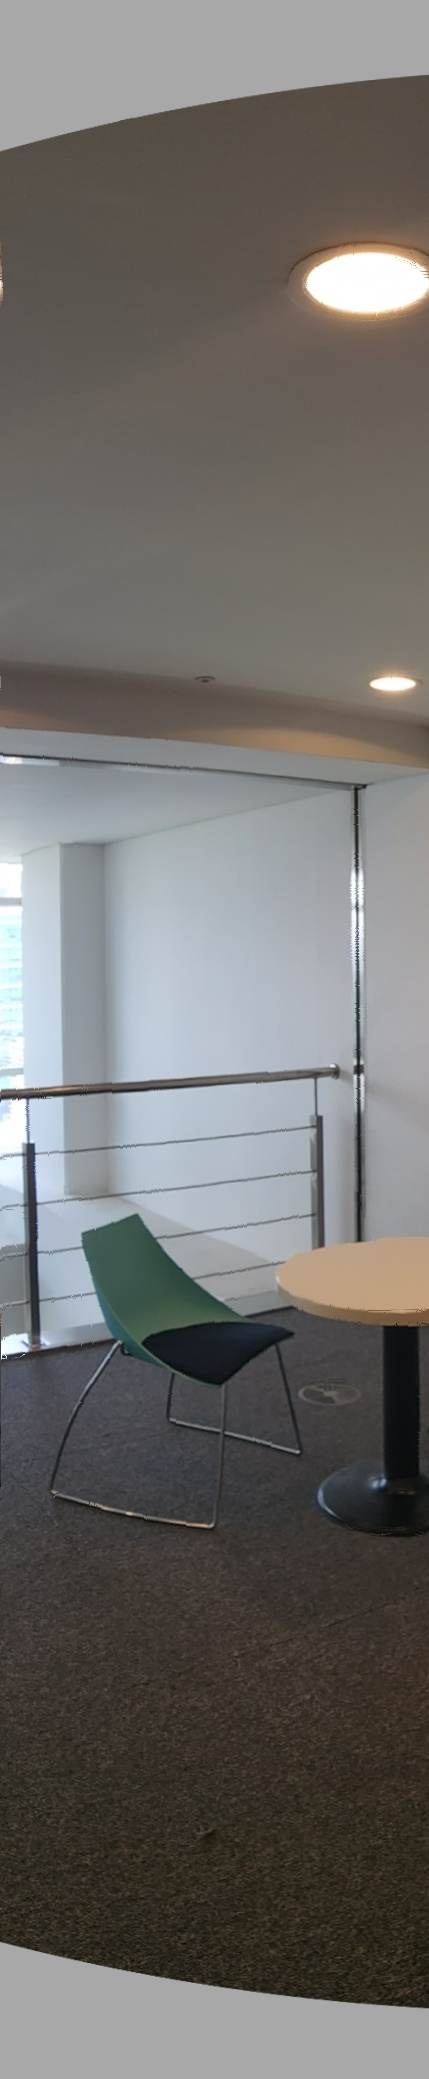
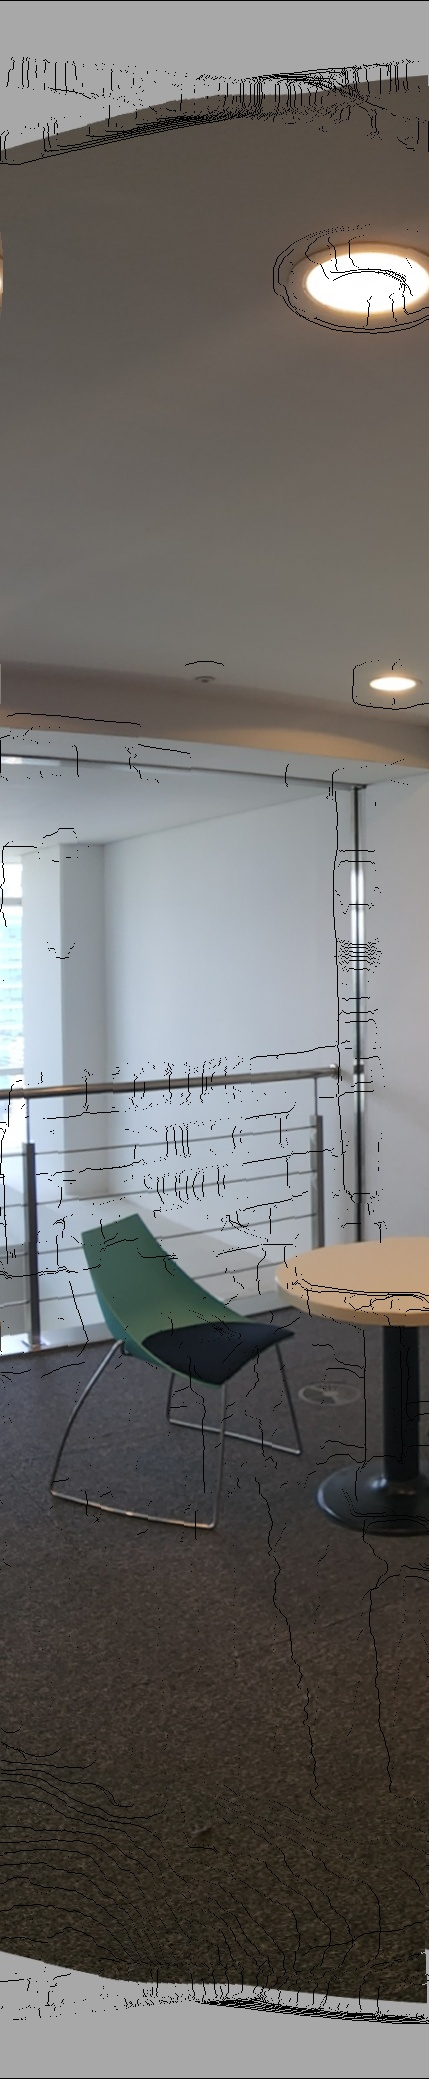
add inpainting and result

diff --git a/CppPractive/opticalFlow/dense_opt_flow.cpp b/CppPractive/opticalFlow/dense_opt_flow.cpp
@@ -8,13 +8,6 @@
 #include "dense_opt_flow.hpp"
 
 
-void dense_opt_flow_to_left_right() {
-    std::string leftImg = "";
-    std::string rightImg = "";
-    
-    
-    
-}
 
 void demo_dense_opt_flow(std::string method) {
     std::string filename = "/Users/3i-21-331/workspace/CppPractive/CppPractive/cars_moving.mp4";
@@ -22,8 +15,8 @@ void demo_dense_opt_flow(std::string method) {
     std::string srcDir = "/Users/3i-21-331/workspace/stitching/mobile_stitching/dataset/blending";
 
     std::string leftFile, rightFile;
-    bool is_center = true;
-    int dataset_num = 11; // 23, 13
+    bool is_center =  true;
+    int dataset_num = 23; // 23, 13 (11, 13, 23) : (zflip, zflip, ultra)
     
     if (is_center) {
         
@@ -73,6 +66,7 @@ void demo_dense_opt_flow(std::string method) {
 template <typename Method, typename... Args>
 void dense_optical_flow_images(std::string leftImgFile, std::string rightImgFile, Method method, bool to_gray, Args&&... args)
 {
+    std::string drawing = "twoOptFlow";//"halfL_halfR";  // halfL_halfR, twoOptFlow
     
     std::string srcDir = "/Users/3i-21-331/workspace/CppPractive/CppPractive/opticalFlow/result/";
     bool save = true;
@@ -85,8 +79,6 @@ void dense_optical_flow_images(std::string leftImgFile, std::string rightImgFile
     cv::Mat rightImg    = cv::imread(rightImgFile);
     
     assert(!leftImg.empty() && !rightImg.empty());
-//    std::cout << "left  image size: " << leftImg.size() << std::endl;
-//    std::cout << "right image size: " << rightImg.size() << std::endl;
     
     
     cv::Mat resultImg = cv::Mat(leftImg.rows, leftImg.cols, leftImg.type());
@@ -111,8 +103,6 @@ void dense_optical_flow_images(std::string leftImgFile, std::string rightImgFile
         prvsR = frame2;
     
     // Calculate Optical Flow
-//    std::cout << "prevL, next size: " << prvsL.size() << ", " << prvsR.size() << std::endl;
-//    std::cout << "prevL, next channel: " << prvsL.channels() << ", " << prvsR.channels() << std::endl;
     cv::Mat flowL2R(prvsR.size(), CV_32FC2);
     cv::Mat flowR2L(prvsL.size(), CV_32FC2);
     
@@ -125,7 +115,6 @@ void dense_optical_flow_images(std::string leftImgFile, std::string rightImgFile
     // if not matched
     // use average value
 
-//    imwrite(srcDir + "beforeflowR2L.jpg", prvsR);
     cv::Mat prvsR_drawn = prvsR.clone(); // cv::Mat(prvsR.rows, prvsR.cols, prvsR.type());
     cv::Mat prvsL_drawn = prvsL.clone(); cv::Mat(prvsL.rows, prvsL.cols, prvsL.type());
     
@@ -135,12 +124,11 @@ void dense_optical_flow_images(std::string leftImgFile, std::string rightImgFile
         for (int x = 0; x < prvsR.cols; x += win_interval) {
             
             const cv::Point2f flowatxy = flowL2R.at<cv::Point2f>(y,x);
-//            printf("(%d,%d) = %.2f, %.2f\n", x, y, flowatxy.x, flowatxy.y);
             line(prvsR_drawn, cv::Point(x,y), cv::Point(cvRound(x + flowatxy.x), cvRound(y + flowatxy.y)), cv::Scalar(255,0,0));
             circle(prvsR_drawn, cv::Point(x,y), radius, cv::Scalar (0,0,0), -1);
         }
     }
-    imwrite(srcDir + "flowR2L.jpg", prvsR_drawn);
+//    imwrite(srcDir + "flowR2L.jpg", prvsR_drawn);
     
     
     for (int y = 0; y < prvsL.rows; y += win_interval) {
@@ -151,10 +139,15 @@ void dense_optical_flow_images(std::string leftImgFile, std::string rightImgFile
             circle(prvsL_drawn, cv::Point(x,y), radius, cv::Scalar (0,0,0), -1);
         }
     }
-    imwrite(srcDir + "flowL2R.jpg", prvsL_drawn);
+//    imwrite(srcDir + "flowL2R.jpg", prvsL_drawn);
     
+    int win_size = 3;
     
-    std::string drawing = "twoOptFlow";//"halfL_halfR"; //"twoOptFlow"; // halfL_halfR, twoOptFlow
+
+    int x_min = prvsL.cols/2 - 3;
+    int x_max = prvsL.cols/2 + 3;
+    int y_min = prvsL.rows/2 - 3;
+    int y_max = prvsL.rows/2 + 3;
     
     if (drawing =="halfL_halfR") {
         for (int y = 230; y < prvsR.rows-230; y += 1 /*opticalWindowSize*/) {
@@ -170,30 +163,7 @@ void dense_optical_flow_images(std::string leftImgFile, std::string rightImgFile
                 double half_x_l2r = flowPt_L2R.x / 2.0;
                 double half_y_l2r = flowPt_L2R.y / 2.0; // p2n -> l2r
                 
-//                // bilinear interpolation //
-//                double xf = x + half_x_r2l + x - half_x_l2r;
-//                double yf = y + half_y_r2l + y - half_y_l2r;
-//
-//                double xi_1 = (int)xf;
-//                double yi_1 = (int)yf;
-//                double xi_2 = xi_1 + 1;
-//                double yi_2 = yi_1 + 1;
-//
-//                double a, b, p, q;
-//                a = (double)yi_2 - yf;
-//                b = yf - (double)yi_1;
-//                p = xf - (double)xi_1;
-//                q = (double)xi_2 - xf;
-                
-//                double M, N;
-//                int P;
-//                M = a * half_x_r2l + b * half_y_l2r;
-                
-                
-                ////////////////////////////
-                
-                
-                
+
                 // x
                 if ( abs(trunc(half_x_r2l * 10.0)) != abs(trunc(half_x_r2l * 10.0)) ) { // compare until floating point 1
                     dest_x = cvRound((x + half_x_r2l + x - half_x_r2l) / 2.0 );
@@ -246,95 +216,91 @@ void dense_optical_flow_images(std::string leftImgFile, std::string rightImgFile
                 resultImg.at<cv::Vec3b>(dest_y,dest_x) = rightImg.at<cv::Vec3b>(y,x);
             }
         }
+        
         imwrite(srcDir + "resultImg.jpg", resultImg);
 
         
         
-    } else if (drawing == "twoOptFlow") {
+    }
+    else if (drawing == "twoOptFlow") {
 
-        cv::Mat resultImgL = leftImg.clone(); // cv::Mat(leftImg.rows, leftImg.cols, leftImg.type());
-        cv::Mat resultImgR = rightImg.clone(); // cv::Mat(rightImg.rows, rightImg.cols, rightImg.type());
+        cv::Mat resultImgL = cv::Mat::zeros(leftImg.rows, leftImg.cols, leftImg.type()); // leftImg.clone(); // cv::Mat(leftImg.rows, leftImg.cols, leftImg.type());
+        cv::Mat resultImgR = cv::Mat::zeros(rightImg.rows, rightImg.cols, rightImg.type()); // rightImg.clone(); // cv::Mat(rightImg.rows, rightImg.cols, rightImg.type());
         
         // left
-//        std::cout << "check: " << flowR2L.at<cv::Point2f>(prvsR.rows-1, prvsR.cols-1) << std::endl;
-        for (int y = 230; y < prvsR.rows-230; y += 1 /*opticalWindowSize*/) {
-            for (int x = 0; x < prvsR.cols; x += 1 /*opticalWindowSize*/) {
+        int shift_ = 1;
+        for (int y = shift_; y < prvsL.rows-shift_; y += 1) {
+            for (int x = 0; x < prvsL.cols; x += 1) {
+                
+                int xr, yr;
                 int dest_x, dest_y;
-                const cv::Point2f flowPt_R2L = flowR2L.at<cv::Point2f>(y,x);
                 const cv::Point2f flowPt_L2R = flowL2R.at<cv::Point2f>(y,x);
+//                const cv::Point2f flowPt_R2L = flowR2L.at<cv::Point2f>(y,x);
+//                const cv::Point2f flowPt_L2R = flowL2R.at<cv::Point2f>(y,x);
+                
+                xr = round(x + flowPt_L2R.x);
+                yr = round(y + flowPt_L2R.y);
+                xr = max(0, xr);            yr = max(0,yr);
+                xr = min(xr, prvsR.cols-1); yr = min(yr, prvsR.rows-1);
+            
+                const cv::Point2f flowPt_R2L = flowR2L.at<cv::Point2f>(yr,xr);
                 
                 // half movement of next to prvs
-//                printf("(%d, %d) = %.2lf, %.2lf\n", x, y, flowPt_R2L.x, flowPt_R2L.y );
                 double half_x_r2l = flowPt_R2L.x / 2.0;
                 double half_y_r2l = flowPt_R2L.y / 2.0;
                 // half movement of prvs to next
                 double half_x_l2r = flowPt_L2R.x / 2.0;
                 double half_y_l2r = flowPt_L2R.y / 2.0;
                 
+                dest_x = cvRound(x + (-half_x_r2l + half_x_l2r) / 2.0 );
+                dest_y = cvRound(y + (-half_y_r2l + half_y_l2r) / 2.0 );
                 
-                // bilinear interpolation //
-                double xf = x + (-half_x_r2l + half_x_l2r) / 2.0;
-                double yf = y + (-half_y_r2l + half_y_l2r) / 2.0;
+                resultImgL.at<cv::Vec3b>(dest_y,dest_x) = leftImg.at<cv::Vec3b>(y,x);
                 
-                int xi_1 = (int)xf;
-                int yi_1 = (int)yf;
-                int xi_2 = (int)(xf + 0.5); // xi_1 + 1;
-                int yi_2 = (int)(yf + 0.5); // yi_1 + 1;
                 
-                double a, b, p, q;
-                a = (double)yi_2 - yf;  // yf
-                b = yf - (double)yi_1;  // yf
-                p = xf - (double)xi_1;  // xf
-                q = (double)xi_2 - xf;  // xf
+//                if  ( x > x_min && x < x_max && y > y_min && y < y_max) {
+//                    printf( "\ncurrent flow (%d,%d): %.2f, %.2f\n", x, y, flowPt_L2R.x, flowPt_L2R.y);
+//                    // 3x3 window 안에서 이웃들의 Flow 계산
+//                    for (int i = 0; i < win_size; i++) {
+//                        for (int j = 0; j < win_size; j++) {
+//                            const cv::Point2f flowNear = flowL2R.at<cv::Point2f>(y+i, x+j);
+//                            printf( "neighbor flow (%d,%d): %.2f, %.2f\n", x+j, y+i, flowNear.x, flowNear.y);
+//                        }
+//                    }
+////                    imshow("hey", resultImgL);
+////                    cv::waitKey(0);
+//
+//                }
                 
-                double M, N;
-                int P;
                 
-//                std::cout << "flow value " << std::endl;
-//                std::cout << flowL2R.at<cv::Point2f>(yi_1, xi_1).x  << ", " << flowL2R.at<cv::Point2f>(yi_2, xi_1).x << std::endl;
-//                std::cout << flowL2R.at<cv::Point2f>(yi_1, xi_2).x << ", " << flowL2R.at<cv::Point2f>(yi_2, xi_2).x << std::endl;
                 
-                M = a * flowL2R.at<cv::Point2f>(yi_1, xi_1).x + b * flowL2R.at<cv::Point2f>(yi_2, xi_1).x;
-                N = a * flowL2R.at<cv::Point2f>(yi_1, xi_2).x + b * flowL2R.at<cv::Point2f>(yi_2, xi_2).x;
-                P = (int) ( (p * N + q * M) / (p + q) );
-                
-//                std::cout << "(x) M,N: " << M << ", " << N << std::endl;
-//                std::cout << "(x) P: " << P << std::endl;
                 
                 // x
 //                if ( abs(trunc(half_x_r2l*10.0)) != abs(trunc(half_x_l2r * 10.0)) ) { // compare until floating point 1
-                dest_x = cvRound(x + (-half_x_r2l + half_x_l2r) / 2.0 );  // P
-//                }
-//                else {
+//                dest_x = cvRound(x + (-half_x_r2l + half_x_l2r) / 2.0 );  // P
+//                else
 //                    dest_x = cvRound(x + half_x_l2r) ; //flowatxy2.x); // half_x_p2n);
-//                }
-                
-                M = a * flowL2R.at<cv::Point2f>(yi_1, xi_1).y + b * flowL2R.at<cv::Point2f>(yi_2, xi_1).y;
-                N = a * flowL2R.at<cv::Point2f>(yi_1, xi_2).y + b * flowL2R.at<cv::Point2f>(yi_2, xi_2).y;
-                P = (int)(p * N + q * M) / (p + q);
-//                std::cout << "(y) M,N: " << M << ", " << N << std::endl;
-//                std::cout << "(y) P: " << P << std::endl;
-                
-                
-                
                 // y
 //                if ( abs(trunc(half_y_r2l*10.0)) != abs(trunc(half_y_l2r * 10.0)) ) { // compare until floating point 1
-                dest_y = cvRound(y + (-half_y_r2l + half_y_l2r) / 2.0 );  // P
-//                }
-//                else {
+//                dest_y = cvRound(y + (-half_y_r2l + half_y_l2r) / 2.0 );  // P
+//                else
 //                    dest_y = cvRound(y + half_y_l2r); // flowatxy2.y); // half_y_p2n);
-//                }
+
                 
-                resultImgL.at<cv::Vec3b>(dest_y,dest_x) = leftImg.at<cv::Vec3b>(y,x);
+                
             }
         }
         
         // right
-        for (int y = 230; y < prvsR.rows-230; y += 1) {
-            for (int x = 1; x < prvsR.cols ; x += 1) {
-                int dest_x, dest_y;
+        for (int y = shift_; y < prvsR.rows-shift_; y += 1) {
+            for (int x = 0; x < prvsR.cols ; x += 1) {
+                int xl, yl, dest_x, dest_y;
                 const cv::Point2f flowPt_R2L = flowR2L.at<cv::Point2f>(y,x);
-                const cv::Point2f flowPt_L2R = flowL2R.at<cv::Point2f>(y,x);
+                xl = round(x + flowPt_R2L.x);
+                yl = round(y + flowPt_R2L.y);
+                xl = max(0, xl);            yl = max(0,yl);
+                xl = min(xl, prvsR.cols-1); yl = min(yl, prvsR.rows-1);
+                const cv::Point2f flowPt_L2R = flowL2R.at<cv::Point2f>(yl,xl);
                 
                 // half movement of next to prvs
                 double half_x_r2l = flowPt_R2L.x / 2.0;
@@ -343,38 +309,72 @@ void dense_optical_flow_images(std::string leftImgFile, std::string rightImgFile
                 double half_x_l2r = flowPt_L2R.x / 2.0;
                 double half_y_l2r = flowPt_L2R.y / 2.0;  // p2n -> l2r
                 
-                // x
-                if ( abs(trunc(half_x_r2l*10.0)) != abs(trunc(half_x_l2r * 10.0)) ) { // compare until floating point 1
-                    dest_x = cvRound(x + (half_x_r2l - half_x_l2r) / 2.0 );
-                }
-                else {
-                    dest_x = cvRound(x + half_x_r2l) ; //flowatxy2.x); // half_x_p2n);
-                }
+//                // x
+//                if ( abs(trunc(half_x_r2l*10.0)) != abs(trunc(half_x_l2r * 10.0)) ) { // compare until floating point 1
+//                    dest_x = cvRound(x + (half_x_r2l - half_x_l2r) / 2.0 );
+//                }
+//                else {
+//                    dest_x = cvRound(x + half_x_r2l) ; //flowatxy2.x); // half_x_p2n);
+//                }
+//
+//                // y
+//                if ( abs(trunc(half_y_r2l*10.0)) != abs(trunc(half_y_l2r * 10.0)) ) { // compare until floating point 1
+//                    dest_y = cvRound(y + (half_y_r2l - half_y_l2r) / 2.0 );
+//                }
+//                else {
+//                    dest_y = cvRound(y + half_y_r2l); // flowatxy2.y); // half_y_p2n);
+//                }
                 
-                // y
-                if ( abs(trunc(half_y_r2l*10.0)) != abs(trunc(half_y_l2r * 10.0)) ) { // compare until floating point 1
-                    dest_y = cvRound(y + (half_y_r2l - half_y_l2r) / 2.0 );
-                }
-                else {
-                    dest_y = cvRound(y + half_y_r2l); // flowatxy2.y); // half_y_p2n);
-                }
+                dest_x = cvRound(x + (half_x_r2l - half_x_l2r) / 2.0 );
+                dest_y = cvRound(y + (half_y_r2l - half_y_l2r) / 2.0 );
                 
                 resultImgR.at<cv::Vec3b>(dest_y,dest_x) = rightImg.at<cv::Vec3b>(y,x);
             }
         }
         
-        // save image
+        cv::Mat woOptResult, bufferResult;
+        smoothing::NewSmoothing_blendedRoI(resultImgL, resultImgR, 0.1, 0.015, bufferResult);
+        smoothing::NewSmoothing_blendedRoI(leftImg, rightImg, 0.1, 0.015, woOptResult);
+        
+        // inpainting
+        cv::Mat grayL, grayR;
+        cv::Mat maskL, maskR;
+        cv::cvtColor(resultImgL, grayL, cv::COLOR_BGR2GRAY);
+        cv::cvtColor(resultImgR, grayR, cv::COLOR_BGR2GRAY);
+        
+        cv::inRange(resultImgL /*grayL*/, cv::Scalar(0,0,0), cv::Scalar(0,0,0), maskL);
+        cv::inRange(resultImgR /*grayR*/, cv::Scalar(0,0,0), cv::Scalar(0,0,0), maskR);
+    
+        
+        cv::Mat dstL, dstR;
+        cv::inpaint(resultImgL, maskL, dstL, 2, cv::INPAINT_TELEA);
+        cv::inpaint(resultImgR, maskR, dstR, 2, cv::INPAINT_TELEA);
+        
+        
+        
+        cv::Mat inpaintOpt;
+        smoothing::NewSmoothing_blendedRoI(dstL, dstR, 0.1, 0.015, inpaintOpt);
+
+        
+//        imwrite(srcDir + "grayL.jpg", grayL);
+//        imwrite(srcDir + "grayR.jpg", grayR);
+        
+        imwrite(srcDir + "maskL.jpg", maskL);
+        imwrite(srcDir + "maskR.jpg", maskR);
+        
+        imwrite(srcDir + "inpaintL.jpg", dstL);
+        imwrite(srcDir + "inpaintR.jpg", dstR);
+        
         imwrite(srcDir + "resultImgR.jpg", resultImgR);
         imwrite(srcDir + "resultImgL.jpg", resultImgL);
         
+        imwrite(srcDir + "bufResult.jpg", bufferResult);
+        imwrite(srcDir + "woOptResult.jpg",woOptResult);
+        imwrite(srcDir + "inpaintOptResult.jpg", inpaintOpt);
+        
     }
     
-    
-    
 
-    
-    
-    
     // Visualization part
     cv::Mat flow_parts[2];
     split(flowR2L, flow_parts);
@@ -401,7 +401,7 @@ void dense_optical_flow_images(std::string leftImgFile, std::string rightImgFile
     }
     imwrite(srcDir + "frameL.jpg", leftImg);
     imwrite(srcDir + "frameR.jpg", rightImg);
-    imwrite(srcDir + "flow_hsv.jpg", bgr);
+//    imwrite(srcDir + "flow_hsv.jpg", bgr);
     
 //    cv::waitKey(0);
 

diff --git a/CppPractive/opticalFlow/dense_opt_flow.hpp b/CppPractive/opticalFlow/dense_opt_flow.hpp
@@ -13,6 +13,7 @@
 //#include <opencv2/optflow/rlofflow.hpp>
 #include <opencv2/optflow.hpp>
 #include <opencv2/opencv.hpp>
+#include "Image.hpp"
 
 template <typename Method, typename... Args>
 void dense_optical_flow_images(std::string leftImgFile, std::string rightImgFile, Method method, bool to_gray, Args&&... args);
